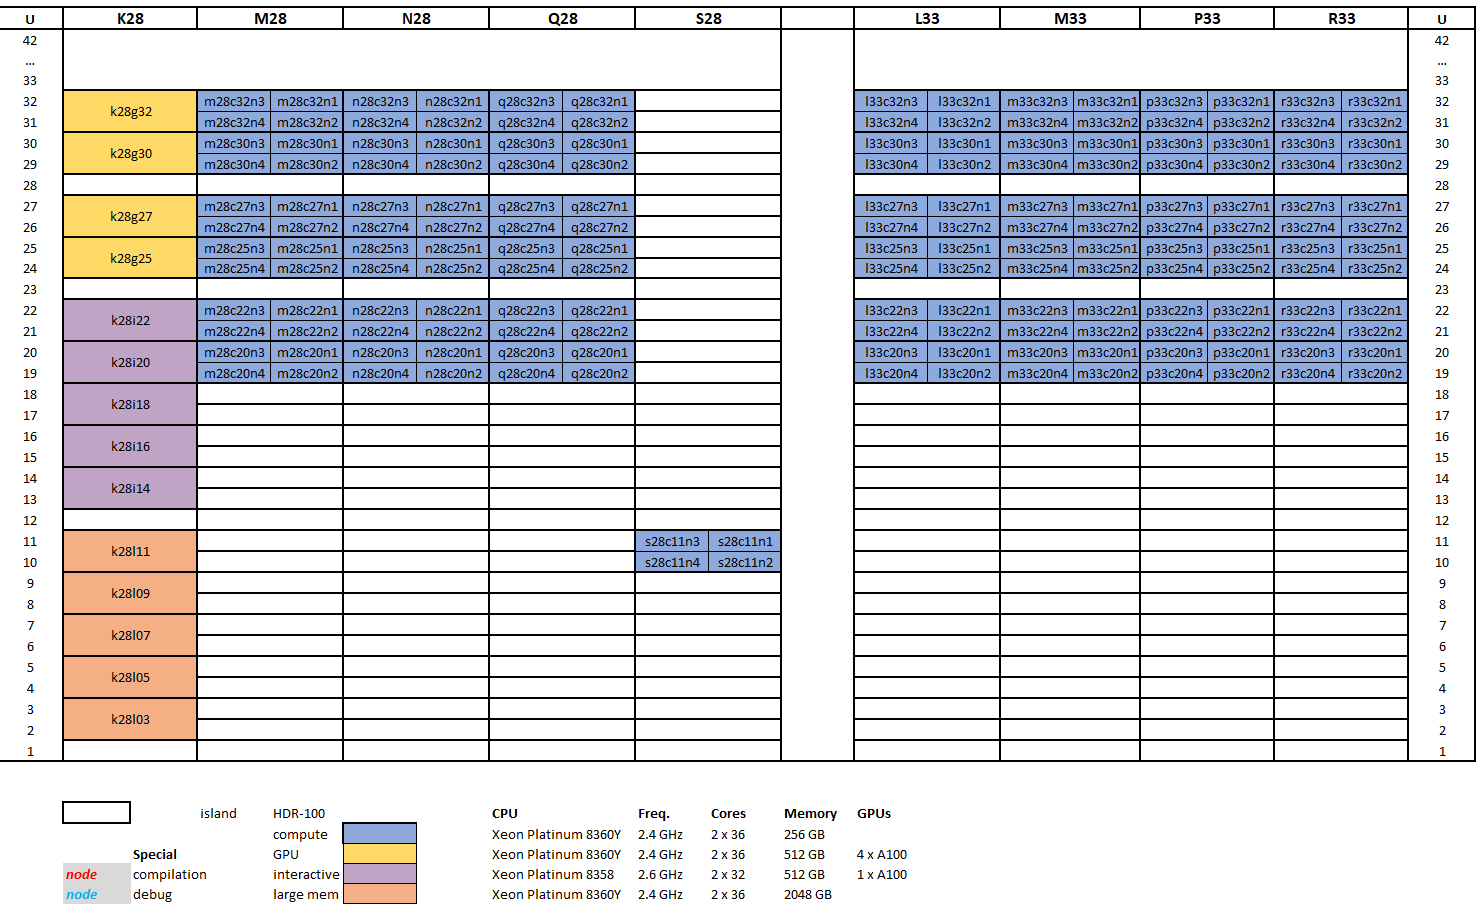
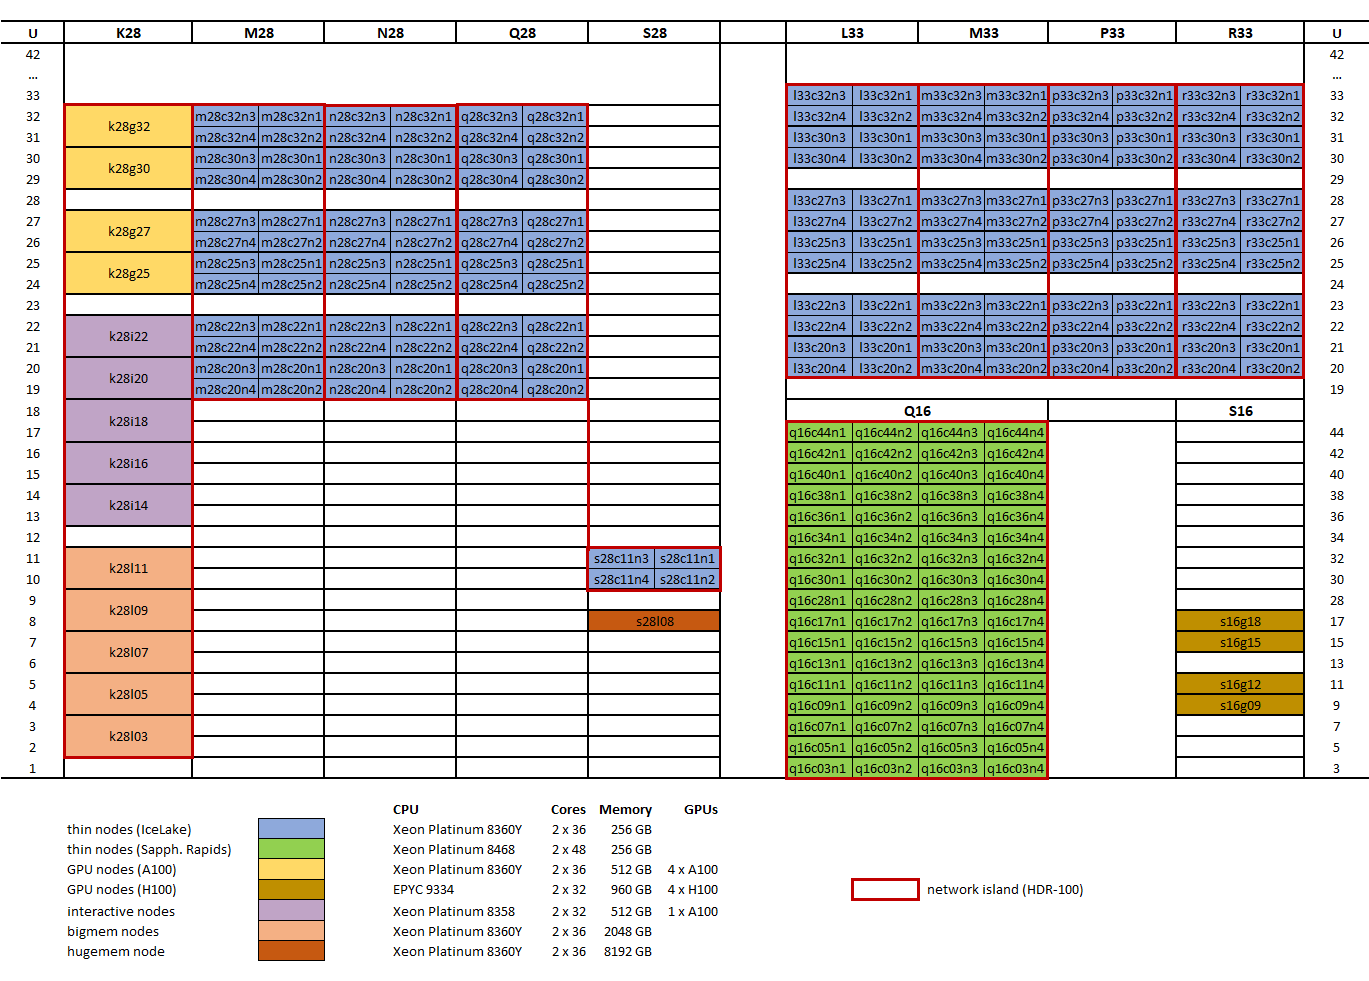
Update wICE hardware page wrt production extension

diff --git a/source/leuven/tier2_hardware/wice_hardware.rst b/source/leuven/tier2_hardware/wice_hardware.rst
@@ -5,19 +5,35 @@ wICE hardware
 
 wICE is KU Leuven/UHasselt's latest Tier-2 cluster. 
 It has thin nodes, large memory nodes, interactive nodes and GPU nodes.
-This cluster is in production since February 2023.
+This cluster is in production since February 2023
+and has been extended with additional compute nodes in early 2024.
+
 
 Hardware details
 ----------------
 
-- 172 thin nodes 
-   
-  - 2 Intel Xeon Platinum 8360Y CPUs\@2.4 GHz (Ice lake),
-    36 cores each :raw-html:`<br />`
-    (1 NUMA domain and 1 L3 cache per CPU)
-  - 256 GiB RAM
-  - 960 GB SSD local disk
-  - partitions ``batch/batch_long``, :ref:`submit options <submit to wice compute node>`
+- 240 thin nodes
+
+  - 172 IceLake nodes
+
+    - 2 Intel Xeon Platinum 8360Y CPUs\@2.4 GHz (IceLake),
+      36 cores each :raw-html:`<br />`
+      (1 NUMA domain and 1 L3 cache per CPU)
+    - 256 GiB RAM
+    - 960 GB SSD local disk
+    - partitions ``batch/batch_long``,
+      :ref:`submit options <submit to wice compute node>`
+
+  - 68 Sapphire Rapids nodes
+
+    - 2 Intel Xeon Platinum 8468 CPUs (Sapphire Rapids),
+      48 cores each :raw-html:`<br />`
+      (4 NUMA domains and 1 L3 cache per CPU) :raw-html:`<br />`
+      The base and max CPU frequencies are 2.1 GHz and 3.8 GHz, respectively.
+    - 256 GiB RAM
+    - 960 GB SSD local disk
+    - partitions ``batch_sapphirerapids/batch_sapphirerapids_long``
+      :ref:`submit options <submit to wice compute node>`
 
 - 5 big memory nodes
 
@@ -26,59 +42,8 @@ Hardware details
     (2 NUMA domains and 1 L3 cache per CPU)
   - 2048 GiB RAM
   - 960 GB SSD local disk
-  - partition ``bigmem``, :ref:`submit options <submit to wice big memory node>`
-
-- 4 GPU nodes, 16 GPU devices
-
-  - 2 Intel Xeon Platinum 8360Y CPUs\@2.4 GHz (Ice lake),
-    36 cores each :raw-html:`<br />`
-    (2 NUMA domains and 1 L3 cache per CPU)
-  - 512 GiB RAM
-  - 4 NVIDIA A100 SXM4, 80 GiB GDDR, connected with NVLink
-  - 960 GB SSD local disk
-  - partition ``gpu``, :ref:`submit options <submit to wice GPU node>`
-
-- 5 interactive nodes
-
-  - 2 Intel Xeon Gold 8358 CPUs\@2.6 GHz (Ice lake),
-    32 cores each :raw-html:`<br />`
-    (2 NUMA domains and 1 L3 cache per CPU)
-  - 512 GiB RAM
-  - 1 NVIDIA A100, 80 GiB GDDR
-  - 960 GB SSD local disk
-  - partition ``interactive``, :ref:`submit options <submit to wice interactive node>`
-
-The nodes are connected using an Infiniband HDR-100 network, the islands are indicated on the diagram below.
-
-.. figure:: wice_hardware/wice.png
-   :alt: wICE hardware diagram
-
-
-Hardware details (extension)
-----------------------------
-We are currently installing and testing additional hardware for wICE,
-which will be made accessible during the spring of 2024:
-
-- 68 thin nodes
-
-  - 2 Intel Xeon Platinum 8468 CPUs (Sapphire Rapids),
-    48 cores each :raw-html:`<br />`
-    (4 NUMA domains and 1 L3 cache per CPU) :raw-html:`<br />`
-    The base and max CPU frequencies are 2.1 GHz and 3.8 GHz, respectively.
-  - 256 GiB RAM
-  - 960 GB SSD local disk
-  - partitions ``batch_sapphirerapids/batch_sapphirerapids_long``
-
-- 4 GPU nodes, 16 GPU devices
-
-  - 2 AMD EPYC 9334 CPUs (Genoa),
-    32 cores each :raw-html:`<br />`
-    (4 NUMA domains and 4 L3 caches per CPU) :raw-html:`<br />`
-    The base and max CPU frequencies are 2.7 GHz and 3.9 GHz, respectively.
-  - 768 GiB RAM
-  - 4 NVIDIA H100 SXM4, 80 GiB HBM3, connected with NVLink
-  - 960 GB SSD local disk
-  - partition ``gpu_h100``
+  - partition ``bigmem``,
+    :ref:`submit options <submit to wice big memory node>`
 
 - 1 huge memory node
 
@@ -88,12 +53,54 @@ which will be made accessible during the spring of 2024:
     The base and max CPU frequencies are 2.4 GHz and 3.5 GHz, respectively.
   - 8 TiB RAM
   - 960 GB SSD local disk
-  - partition ``hugemem``
+  - partition ``hugemem``,
+    :ref:`submit options <submit to wice big memory node>`
 
-Only the thin nodes are interconnected with Infiniband HDR-100, with all nodes
-inside the same network island. The GPU nodes can only communicate over
-ethernet (no high-performance interconnect). All nodes are however connected
-to the Lustre parallel file system through an Infiniband HDR-100 network.
+- 8 GPU nodes
 
-The thin nodes and GPU nodes are furthermore the first ones in the data center
-to be direct liquid cooled.
+  - 4 nodes with 16 A100 GPUs in total
+
+    - 2 Intel Xeon Platinum 8360Y CPUs\@2.4 GHz (Ice lake),
+      36 cores each :raw-html:`<br />`
+      (2 NUMA domains and 1 L3 cache per CPU)
+    - 512 GiB RAM
+    - 4 NVIDIA A100 SXM4, 80 GiB GDDR, connected with NVLink
+    - 960 GB SSD local disk
+    - partition ``gpu``,
+      :ref:`submit options <submit to wice GPU node>`
+
+  - 4 nodes with 16 H100 GPUs in total
+
+    - 2 AMD EPYC 9334 CPUs (Genoa),
+      32 cores each :raw-html:`<br />`
+      (4 NUMA domains and 4 L3 caches per CPU) :raw-html:`<br />`
+      The base and max CPU frequencies are 2.7 GHz and 3.9 GHz, respectively.
+    - 768 GiB RAM
+    - 4 NVIDIA H100 SXM4, 80 GiB HBM3, connected with NVLink
+    - 960 GB SSD local disk
+    - partition ``gpu_h100``,
+      :ref:`submit options <submit to wice GPU node>`
+
+- 5 interactive nodes
+
+  - 2 Intel Xeon Gold 8358 CPUs\@2.6 GHz (Ice lake),
+    32 cores each :raw-html:`<br />`
+    (2 NUMA domains and 1 L3 cache per CPU)
+  - 512 GiB RAM
+  - 1 NVIDIA A100, 80 GiB GDDR
+  - 960 GB SSD local disk
+  - partition ``interactive``,
+    :ref:`submit options <submit to wice interactive node>`
+
+All nodes of the same type are interconnected using an Infiniband HDR-100
+network, except the H100 GPU and hugemem nodes which can only communicate
+over ethernet (no high-performance interconnect). The corresponding
+network islands are indicated on the diagram below.
+All nodes are furthermore connected to the Lustre parallel file system
+through an Infiniband HDR-100 network.
+
+.. figure:: wice_hardware/wice.png
+   :alt: wICE hardware diagram
+
+The Sapphire Rapids and H100 GPU nodes are the first ones
+in the data center to be direct liquid cooled.
